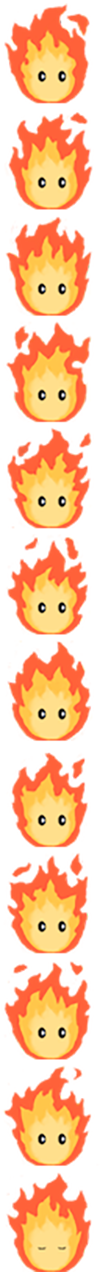
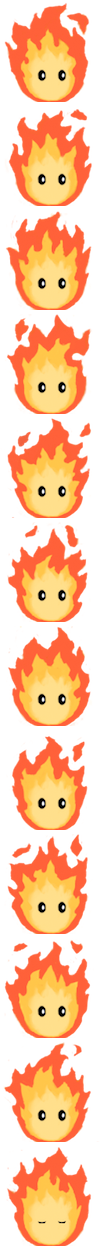
Texture change

diff --git a/Aiden/core/src/edu/cornell/gdiac/physics/character/AidenModel.java b/Aiden/core/src/edu/cornell/gdiac/physics/character/AidenModel.java
@@ -586,14 +586,14 @@ public class AidenModel extends CharacterModel {
 	public void drawSpirit(GameCanvas canvas, float ratio, Color c){
 		if (this.animeCoolDown<=0) {
 			animeCoolDown=MAX_ANIME_TIME;
-			spirit.setFrame((spirit.getFrame()+1)%5);
+			spirit.setFrame((spirit.getFrame()+1)%3);
 		}
 
 		// For placement purposes, put origin in center.
 		float ox = 0.5f * characterSprite.getRegionWidth();
 		float oy = 0.5f * characterSprite.getRegionHeight();
 
-		float effect = faceRight ? 1.0f : -1.0f;
+		float effect = faceRight ? -1.0f : 1.0f;
 		canvas.draw(spirit, c, ox, oy, getX() * drawScale.x,
 				getY() * drawScale.y+20, getAngle(), -effect*ratio, ratio);
 	}

diff --git a/Aiden/core/src/edu/cornell/gdiac/physics/blocks/Rope.java b/Aiden/core/src/edu/cornell/gdiac/physics/blocks/Rope.java
@@ -150,7 +150,7 @@ public class Rope extends ComplexObstacle {
 			jointDef.bodyB = bodies.get(ii+1).getBody();
 			jointDef.localAnchorA.set(anchor1);
  			jointDef.localAnchorB.set(anchor2);
-			jointDef.collideConnected = false;
+//			jointDef.collideConnected = false;
 			joint = world.createJoint(jointDef);
 			joints.add(joint);
 		}
